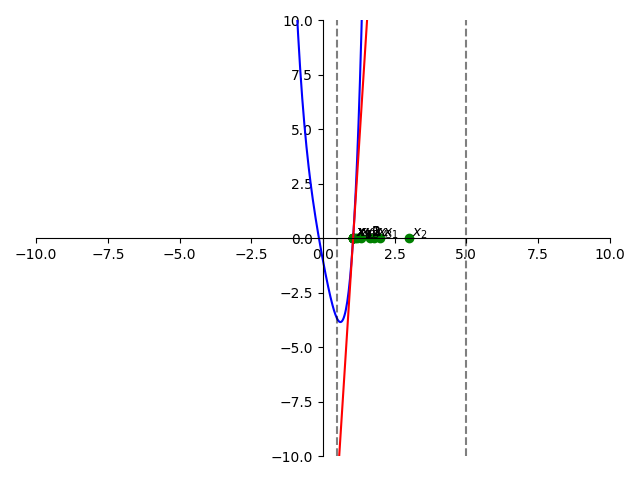
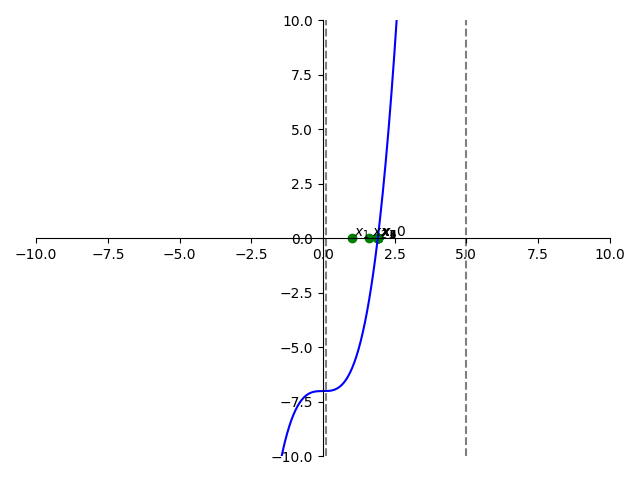
simple iteration method

Changed region(s): [[0.4688, 0.0312, 0.6562, 0.9688], [0.4375, 0.8438, 0.4688, 0.9375], [0.4375, 0.0625, 0.4688, 0.125]]

diff --git a/application/flask-server/methods/Iteration/tools.py b/application/flask-server/methods/Iteration/tools.py
@@ -31,10 +31,10 @@ def create_plot_newtons(f, df, x, a, b):
     ----------
     f: function
         The function to visualize.
-    tangent: function
-        The tangent line to visualize.
-    x: float
-        The point at which the tangent line is drawn.
+    df: function
+        The derivative of the function to visualize.
+    x: list of floats
+        The approximation points.
     a: float
         The left boundary of the plot.
     b: float
@@ -103,8 +103,8 @@ def create_plot_konashuk(f, x, a, b):
         The function to visualize.
     tangent: function
         The tangent line to visualize.
-    x: float
-        The point at which the tangent line is drawn.
+    x: list of floats
+        The approximation points.
     a: float
         The left boundary of the plot.
     b: float
@@ -158,3 +158,61 @@ def create_plot_konashuk(f, x, a, b):
     
     # Send the saved plot as a file to the client
     return send_file('plot.png', mimetype='image/png')
+
+def create_plot_simple_iteration(f, x, a, b):
+    """
+    Visualize the function and the tangent line at the given point.
+
+    Parameters
+    ----------
+    f: function
+        The function to visualize.
+    x: list of floats
+        The approximation points.
+    a: float
+        The left boundary of the plot.
+    b: float
+        The right boundary of the plot.
+    """
+    #parse the function and its derivative
+    f = parse_expression(f, 'x')
+
+    x_space = np.linspace(a-10, b+10, 1000)
+    fig = plt.figure()
+    ax = fig.add_subplot(1, 1, 1)
+    # Move left y-axis and bottom x-axis to centre, passing through (0,0)
+    ax.spines['left'].set_position('center')
+    ax.spines['bottom'].set_position('center')
+
+    # Eliminate upper and right axes
+    ax.spines['right'].set_color('none')
+    ax.spines['top'].set_color('none')
+
+    # Show ticks in the left and lower axes only
+    ax.xaxis.set_ticks_position('bottom')
+    ax.yaxis.set_ticks_position('left')
+    m = max(abs(a), abs(b))*2
+    ax.set_ylim(ymin=-m, ymax=m)
+    ax.set_xlim(xmin=-m, xmax=m)
+
+    ax.plot(x_space, f(x_space), color='blue')
+
+    # Plot every approximation point
+    ax.scatter(x, np.zeros(len(x)), color='green')
+
+    #plot vertical -- line
+    ax.axvline(x=a, color='k', linestyle='--', alpha=0.5)
+    ax.axvline(x=b, color='k', linestyle='--', alpha=0.5)
+
+    plt.tight_layout()
+
+    # Annotate the approximation points
+    for i in range(len(x)):
+        ax.annotate(f'$x_{i+1}$', (x[i], 0), xytext=(x[i] + 0.1, 0.1))
+
+    # Save the plot to a file (e.g., in PNG format)
+    plt.savefig('plot.png')
+    
+    # Send the saved plot as a file to the client
+    return send_file('plot.png', mimetype='image/png')
+

diff --git a/application/flask-server/server.py b/application/flask-server/server.py
@@ -4,9 +4,10 @@ import io
 #methods
 from methods.Iteration.Newtons_method import newtons_method
 from methods.Iteration.Konashuk import konashuk_method
+from methods.Iteration.Simple_iteration import simple_iteration
 
 #tools
-from methods.Iteration.tools import create_plot_newtons, create_plot_konashuk
+from methods.Iteration.tools import create_plot_newtons, create_plot_konashuk, create_plot_simple_iteration
 
 app = Flask(__name__)
 CORS(app)
@@ -81,6 +82,41 @@ def plot_konashuk_method_server():
 
     #test url
     #http://localhost:5000/konashuk-method-plot/?f=x**3-4*x-3&x_list=1.0,2.0,3.0,2.2,2.27007299270073,2.3048474471924383,2.302735801866057,2.3027755898951936,2.3027756377331,2.302775637731995&a=0&b=2
+#Simple-iteration method
+@app.route('/simple-iteration-method/', methods=['GET'])
+def simple_iteration_method_server():
+
+    #get parameters
+    f = request.args.get('f')
+    a = request.args.get('a')
+    b = request.args.get('b')
+    x0 = request.args.get('x')
+    c = request.args.get('C')
+    epsilon = request.args.get('epsilon')
+
+    #test url
+    #http://localhost:5000/simple-iteration-method/?f=x**3-4%20-3&&x=1&a=0&b=2&C=0.35&epsilon=1e-7
+
+    response = simple_iteration(str(f), float(a), float(b), float(x0), float(c), float(epsilon))
+    return response
+
+#plot Simple-iteration method
+@app.route('/simple-iteration-method-plot/', methods=['GET'])
+def plot_simple_iteration_method_server():
+
+    f = request.args.get('f')
+    a = request.args.get('a')
+    b = request.args.get('b')
+    x_list = request.args.get('x_list')
+    
+    #convert string to list of floats
+    x_list = list(map(float, x_list.split(',')))
+
+    return create_plot_simple_iteration(str(f), x_list, float(a), float(b))
+
+
+    #test url
+    #http://localhost:5000/simple-iteration-method-plot/?f=x**3-4%20-3&a=0.1&b=5&x_list=1.0,1.6,1.8904,1.9148443572736,1.9127419889261075,1.9129496638217682,1.9129293752829035,1.9129313595280073,1.9129311654871364,1.9129311844627435
 
    
 

diff --git a/application/flask-server/methods/Iteration/Simple_iteration.py b/application/flask-server/methods/Iteration/Simple_iteration.py
@@ -1,0 +1,59 @@
+import methods.Iteration.tools as tools
+
+def simple_iteration(f, a, b, aprox, C,epsilon=1e-7, max_iter=100):
+    """
+    Realization of the simple iteration method for solving nonlinear equations on the segment [a, b]
+
+    Parameters
+    ----------
+    f : str
+        Function to solve
+    a : float
+        Left border of the segment
+    b : float
+        Right border of the segment
+    C : float (0, 1)
+        Constant of contractive function
+    aprox : float
+        Initial approximation
+    epsilon : float, optional
+        Accuracy of the solution
+
+    Returns
+    -------
+    x : float
+        Approximate solution of the equation
+    """
+    if C <= 0 or C >= 1:
+        raise ValueError("C must be between 0 and 1")
+
+    iter = 0
+
+    #parse the function and its derivative
+    func = tools.parse_expression(f, 'x')
+
+    #the initial approximation
+    x_approx = aprox
+    
+    #list of approximations
+    x_list = [x_approx]
+
+    while abs(float(func(x_approx))) > epsilon:
+        x_approx = x_approx - C*func(x_approx)
+        print(x_approx)
+
+        if x_approx < a:
+            x_approx = a
+        elif x_approx > b:
+            x_approx = b
+
+        x_list.append(x_approx)
+
+        iter += 1
+
+        if iter > max_iter:
+            raise RuntimeError("The number of iterations exceeded the maximum")
+        
+    return {"func": f, 'a': a, 'b': b, "epsilon": epsilon,
+            "x_approx": x_approx, "x_list": x_list,
+            "method": "Simple iteration"}
